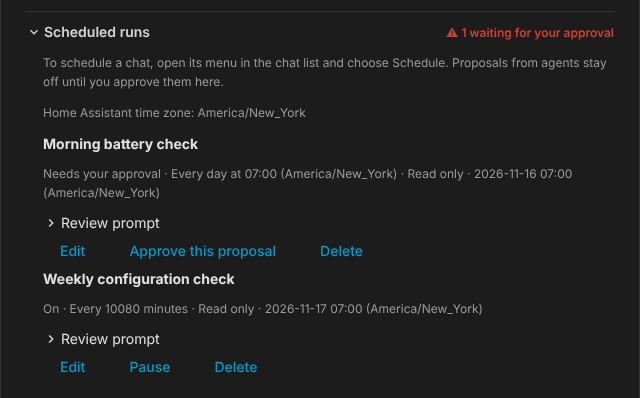
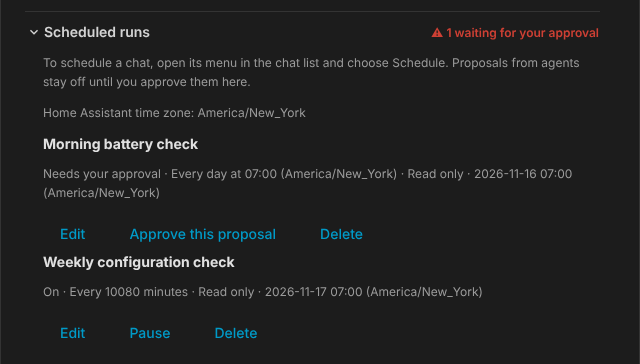
Screenshots: no workspace warning, and three smaller pictures for the Info tab
The README screenshots showed the "No workspace instructions yet" warning of
a new install above the message box. The screenshot script now saves sample
workspace rules in the fixture before its first shot, through the same
request as the Settings editor, and fails a shot if the warning shows.

The Info tab showed one large picture of the whole page. It now shows three
smaller ones: the chat list, the usage area at the foot of the sidebar, and
the message box below the end of an answer (info-chats, info-usage,
info-reply, each in light and dark, desktop and phone). The script dismisses
the sample schedule proposal's warning in those shots, as a person would.

The chat, confirm and schedule-proposal screenshots are retaken: the first
two lose the warning, and the third no longer shows "Review prompt", which
the Settings polish removed. The sign-in screenshots are a crop of Settings
where the warning never shows, and are unchanged.

diff --git a/screenshots/SCREENSHOTS.md b/screenshots/SCREENSHOTS.md
@@ -10,6 +10,9 @@ Each screenshot exists in four versions: `light` and `dark` color scheme, `deskt
 | Name | What it shows |
 |---|---|
 | `chat` | The chat page with one saved conversation open: a question about an automation and the answer that explains the change. |
+| `info-chats` | The **New chat** button and the list of saved conversations, as the app's **Info** tab shows them. |
+| `info-usage` | The foot of the sidebar: the Codex and GitHub status rows, the 5-hour and weekly quota bars, and **Settings**. |
+| `info-reply` | The end of an answer and the message box below it, with the permission mode and the model. |
 | `confirm` | A command that waits for one confirmation: what changes, where, the effect, the working folder, the command, and **Allow once** and **Deny**. The phone versions start lower in the card, so that both buttons are in view. |
 | `schedule-proposal` | **Settings** > **Scheduled runs**: a schedule that an agent proposed, which stays off until you approve it, and an approved schedule. |
 | `sign-in` | **Settings** > **ChatGPT account** while a sign-in waits for its code. The code and the QR code are blurred. |
@@ -22,6 +25,15 @@ Each row shows one screen: light and dark on a desktop, then light and dark on a
 
 <p><img src="chat-light-desktop.png" alt="Chat, light, desktop" width="360"> <img src="chat-dark-desktop.png" alt="Chat, dark, desktop" width="360"></p>
 <p><img src="chat-light-phone.png" alt="Chat, light, phone" width="180"> <img src="chat-dark-phone.png" alt="Chat, dark, phone" width="180"></p>
+
+### Info tab
+
+The app's **Info** tab (`codex-cli-worker/README.md`) shows the light desktop version of these three.
+
+<p><img src="info-chats-light-desktop.png" alt="Chat list, light, desktop" width="180"> <img src="info-chats-dark-desktop.png" alt="Chat list, dark, desktop" width="180"> <img src="info-chats-light-phone.png" alt="Chat list, light, phone" width="180"> <img src="info-chats-dark-phone.png" alt="Chat list, dark, phone" width="180"></p>
+<p><img src="info-usage-light-desktop.png" alt="Usage area, light, desktop" width="180"> <img src="info-usage-dark-desktop.png" alt="Usage area, dark, desktop" width="180"> <img src="info-usage-light-phone.png" alt="Usage area, light, phone" width="180"> <img src="info-usage-dark-phone.png" alt="Usage area, dark, phone" width="180"></p>
+<p><img src="info-reply-light-desktop.png" alt="Message box below a reply, light, desktop" width="360"> <img src="info-reply-dark-desktop.png" alt="Message box below a reply, dark, desktop" width="360"></p>
+<p><img src="info-reply-light-phone.png" alt="Message box below a reply, light, phone" width="180"> <img src="info-reply-dark-phone.png" alt="Message box below a reply, dark, phone" width="180"></p>
 
 ### Confirmation
 
@@ -55,7 +67,8 @@ uploads the new files as an artifact named `screenshots`. Compare them with the 
 changed.
 
 The `confirm` screenshots change on every run: the chat header and the conversation list show the time at which the
-script sent the request. Commit them only when something else in the picture changed. All other screenshots use a
+script sent the request. The `info-reply` screenshots change on every run too: the line under the answer shows the
+time at which the fixture ran it. Commit them only when something else in the picture changed. All other screenshots use a
 fixed sample date and are the same on every run unless the page changed.
 
 To take them on your own computer, install the test dependencies (Python: `flask`, `pyyaml`, `requests`, `qrcode`,
@@ -69,6 +82,10 @@ CODEX_FIXTURE_SIGN_IN=pending python codex-cli-worker/tests/web_fixture.py &
 CODEX_FIXTURE_SIGN_IN=pending node codex-cli-worker/tests/readme_screenshots.cjs
 kill %1
 ```
+
+Before its first shot the script saves sample workspace rules in the fixture, through the same request as the
+**Settings** editor, so no screenshot shows the "No workspace instructions yet" warning of a new install. In the
+`info` shots it also dismisses the "Schedule proposal waiting" warning that the sample proposal raises.
 
 The script writes to `screenshots/`. Set `SCREENSHOT_DIR` to write somewhere else.
 

diff --git a/codex-cli-worker/README.md b/codex-cli-worker/README.md
@@ -4,9 +4,13 @@ Ask OpenAI's Codex, in a chat inside Home Assistant, to explain your setup or ch
 your configuration folder, edits it, checks the YAML it changed and tells you what it did. You stay in control: in
 the **Ask for approval** and **Read only** modes, the chat asks you first when a step needs more access.
 
-![The chat page with a saved conversation: a question about an automation and Codex's answer](https://raw.githubusercontent.com/fatherdoctor/ha_codex/main/screenshots/chat-light-desktop.png)
+<p><img src="https://raw.githubusercontent.com/fatherdoctor/ha_codex/main/screenshots/info-chats-light-desktop.png" alt="The New chat button and the list of saved conversations" width="200"> <img src="https://raw.githubusercontent.com/fatherdoctor/ha_codex/main/screenshots/info-usage-light-desktop.png" alt="The status rows, the quota bars and Settings at the foot of the sidebar" width="200"></p>
 
-*The chat page. The sidebar lists your saved conversations; the open one shows a question and the answer.*
+*The sidebar: your saved conversations, and below them the Codex and GitHub status, the quota left and **Settings**.*
+
+![The end of an answer and the message box below it](https://raw.githubusercontent.com/fatherdoctor/ha_codex/main/screenshots/info-reply-light-desktop.png)
+
+*The end of an answer and the message box, where you ask the next question.*
 
 ## Quick Start
 
